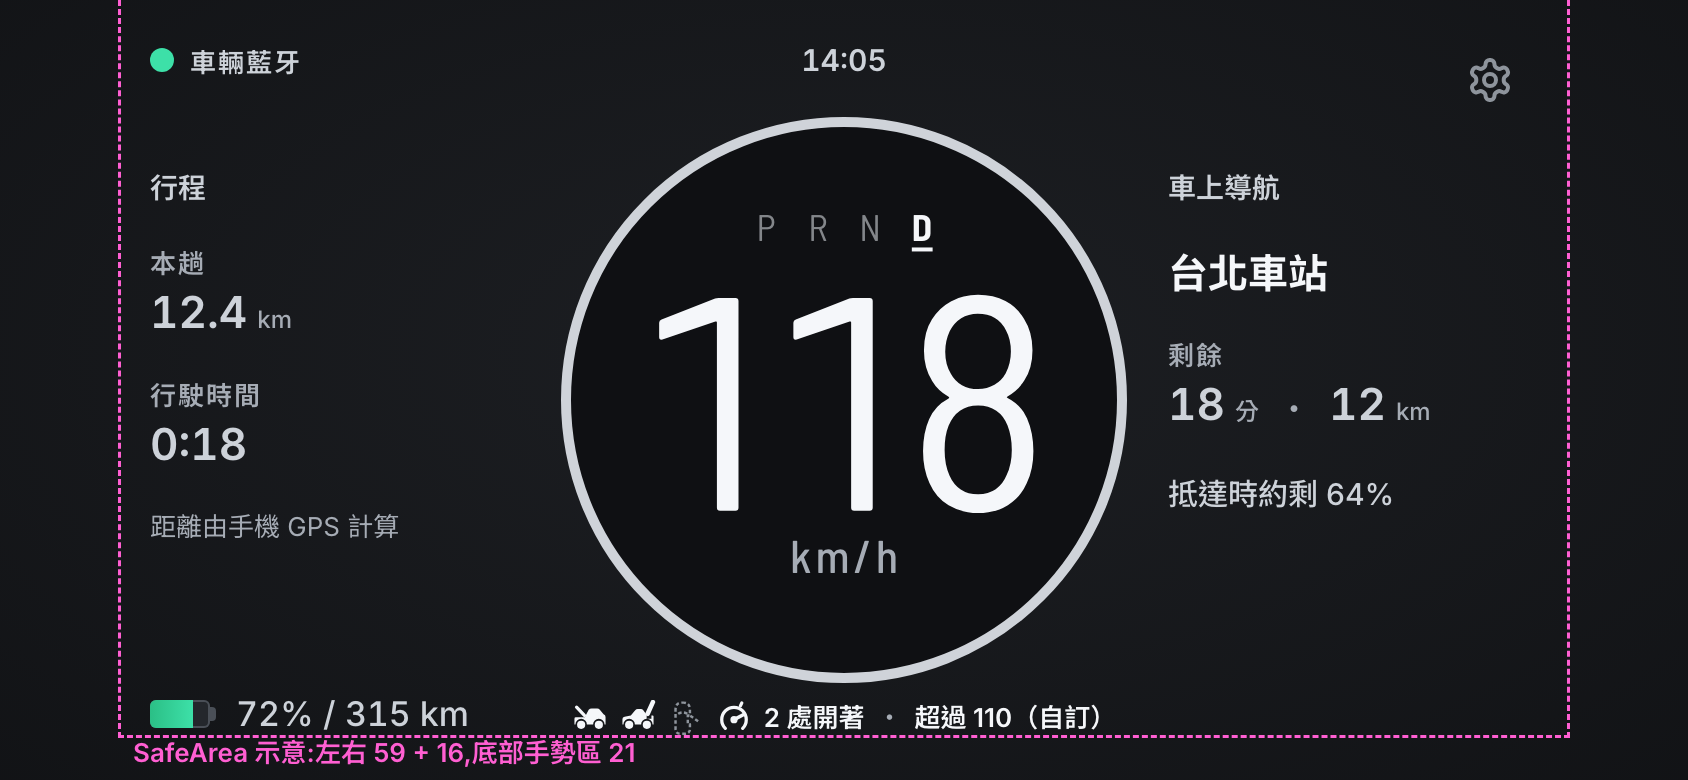
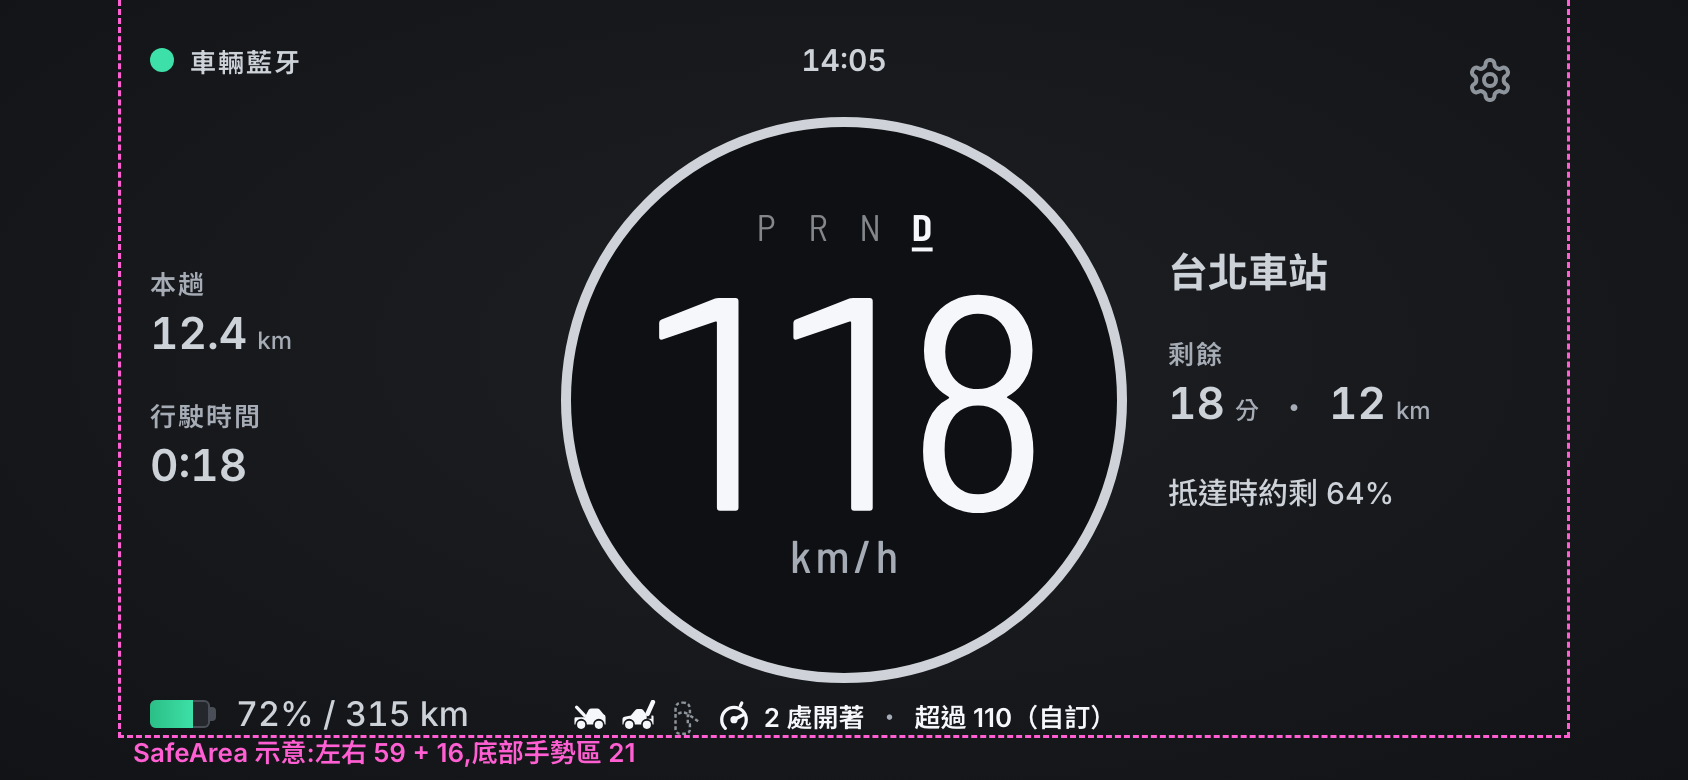
Design round 12: A drive wings distilled (L80)
While driving, the side panels lose their titles (「行程」「車上導航」,
now aria-labels) and the note 「距離由手機 GPS 計算」 (the source stays
on the parked trip panel). Their content is centered vertically against
the gauge, and the destination uses text.secondary, so only the speed is
white. The parked screen is unchanged.

Self-check: 0 issues at 1280, 1440 and 390. A new check makes sure the
drive panels carry no title or note, and that the parked trip panel
keeps its source note. The detector flags only Inter, which DESIGN.md
pins.

Claude-Session: https://claude.ai/code/session_01X7sNsGCLjkxn9JiGuuuQAw

diff --git a/docs/design/frames/main-redesign-a2.html b/docs/design/frames/main-redesign-a2.html
@@ -266,6 +266,10 @@
   .wing .dest { flex: none; margin-top: 20px; font-size: 20px; line-height: 26px; font-weight: 700; color: var(--num); white-space: nowrap; overflow: hidden; text-overflow: ellipsis; }
   .wing .note { flex: none; margin-top: 20px; font-size: 13px; line-height: 17px; color: var(--unit); }
   .wing .eta { flex: none; margin-top: 18px; font-size: 15px; line-height: 20px; font-weight: 500; color: var(--sec); white-space: nowrap; }  /* 修正 1:預估抵達電量改成一句,比左下的電量(17 / 500)小 */
+  /* 精簡(L80):行駛兩側不放標題和小字,內容在面板裡上下置中(對著量表中心);目的地也用 text.secondary,白色只給車速 */
+  .pn.wing { justify-content: center; }
+  .wing > :first-child { margin-top: 0; }
+  .wing .dest { color: var(--sec); }
   /* 狀態列:圓環正下方一行,圖示 22 + 字 15 / 600 text.primary;開著的那格「圖示 + 字」,未知的那格只有虛線圖示(灰、不加字) */
   /* 修正 1:圖示照固定順序排在前面(18 × 18、間隔 6),後面接一句話;上緣 y 350(不進量表區)、高 18。放不下時依序:13 px → 開著的部位改成「N 處開著」、未知不加字 → 只留門檻那句 */
   .srow { position: absolute; display: flex; align-items: center; justify-content: center; gap: 6px; height: 18px; white-space: nowrap; }
@@ -305,13 +309,23 @@
 
 <section id="fix1" class="rev">
   <h2>修正 1(2026-10-26):設計審查的 5 點(L77、L78)</h2>
-  <p>老闆說這 5 點由 tsla-speed-meter-80 改;夜間老闆選「外圈變暗」。Pen 沒有跟著改,這頁是最新的。</p>
+  <p>老闆說這 5 點由 tsla-speed-meter-80 改;夜間老闆選「外圈變暗」。Pen 沒有跟著改,這頁是最新的。之後又做了一次「精簡」(下一段)。</p>
   <ul>
     <li><b>狀態列放得下</b>:圖示照固定順序(前車廂、後車廂、車門、門檻)排前面,縮成 18;後面接一句話,上緣 y 350 不進量表區。放不下 300 寬時依序退:15 → 13 px → 「N 處開著」、未知只留虛線圖示 → 只留門檻那句。⑤ 是最擠的情況。</li>
     <li><b>不會把預估電量看成即時電量</b>:「預估抵達電量 64%」改成一句「抵達時約剩 64%」(15 px),比左下的即時電量(17 px)小;兩側數值 24 → 22 px、改用 text.secondary,白色只留給車速。行駛時間和小字保留(老闆喜歡 Dashla 的寫法)。</li>
     <li><b>夜間圓環變暗</b>:夜間用 text.dim #6B7078,比夜間車速暗(⑥)。白天照舊 #CFD3D9。</li>
     <li><b>車門未知有字</b>:狀態列多「車門未知」(text.secondary),不再只有虛線(④)。</li>
     <li><b>超過門檻更明顯</b>:圓環 2 → 5 px,不變色、不閃(② ⑤),取代 110 刻痕。</li>
+  </ul>
+</section>
+
+<section id="distill" class="rev">
+  <h2>精簡(2026-10-26,L80)</h2>
+  <ul>
+    <li><b>行駛時兩側拿掉標題</b>「行程」「車上導航」:內容自己看得懂(本趟、行駛時間;目的地、剩餘),讀屏改用 aria-label。停車畫面的標題是按鈕,照舊。</li>
+    <li><b>行駛時拿掉小字</b>「距離由手機 GPS 計算」:開車時只看一眼,不讀說明;資料來源留在停車畫面的行程那組。</li>
+    <li><b>兩側內容上下置中</b>,對著量表中心,離車速數字比較近,不再黏在上方。</li>
+    <li><b>目的地也改成 text.secondary</b>:兩側全部同一個灰白,白色只給車速。</li>
   </ul>
 </section>
 
@@ -717,7 +731,7 @@ const TEMP = `<div class="htemp" style="left:633px;top:16px;width:76px">車外 2
 const dots = (i, n, cls = "", st = "") => `<span class="dots ${cls}" style="${st}" aria-hidden="true">${Array.from({ length: n }, (_, j) => `<i class="${j === i - 1 ? "on" : ""}"></i>`).join("")}</span>`;
 const say = (name, i, n) => `${name}，第 ${i} 張，共 ${n} 張，按鈕`;
 const ttl = (name, btn) => btn ? `<div class="pt btn" role="button" aria-label="${say(name, ...btn)}">${name}${ic("chevron-down", 16)}${dots(...btn)}</div>` : `<div class="pt">${name}</div>`;
-const pnl = (p, inner, cls = "") => `<div class="pn ${cls}" style="left:${p.x}px;top:${p.y}px;width:${p.w}px;height:${p.h}px">${inner}</div>`;
+const pnl = (p, inner, cls = "", label = "") => `<div class="pn ${cls}"${label ? ` role="group" aria-label="${label}"` : ""} style="left:${p.x}px;top:${p.y}px;width:${p.w}px;height:${p.h}px">${inner}</div>`;
 const hit = (x, y, w, h, name) => `<span class="hit" data-hit="${name}" style="left:${x}px;top:${y}px;width:${w}px;height:${h}px"></span>`;
 // 行程(L73 S12-05):GPS 那組 +「距離和車速由手機 GPS 計算」;o.charge 有值時隔一條線,再放「本趟電量變化」+「依車輛藍牙電量計算」(只用 GPS 或起點電量缺值時不畫)
 const NOTE_GPS = "距離和車速由手機 GPS 計算", NOTE_BLE = "依車輛藍牙電量計算";
@@ -770,12 +784,12 @@ const srow = (ring = {}, t = TC) => { const items = RING_KEYS.map(n => [n, stOf(
     `<span class="si i">${items.map(([n, st]) => srIcon(n, st, t)).join("")}</span>${words ? `<span class="si w">${words}</span>` : ""}</div>`; };
 
 // 行駛兩側(參考 Dashla:小標題在上、大數字在下)。左右兩塊都從 y 84 開始,同一高度
-const NOTE_DRIVE = "距離由手機 GPS 計算";
 const LW = { x: 75, y: 84, w: 185, h: 212 }, RW = { x: 584, y: 84, w: 185, h: 212 };
 const wi = (k, v) => `<div class="wi"><span class="wk">${k}</span><span class="wv">${v}</span></div>`;
-const WING_TRIP = ttl("行程") + wi("本趟", "12.4<small>km</small>") + wi("行駛時間", "0:18") + `<div class="note">${NOTE_DRIVE}</div>`;
+// 精簡(L80):行駛時不放「行程」「車上導航」標題(內容自己看得懂,讀屏用 aria-label)和「距離由手機 GPS 計算」(資料來源留在停車畫面)
+const WING_TRIP = wi("本趟", "12.4<small>km</small>") + wi("行駛時間", "0:18");
 // 修正 1:預估抵達電量不再是一個大數字(會和左下的即時電量 72% 搞混),改成一句「抵達時約剩 64%」,比即時電量小
-const WING_NAV = ttl("車上導航") + `<div class="dest">台北車站</div>` + wi("剩餘", `18<small>分</small><span class="sep">・</span>12<small>km</small>`) + `<div class="eta">抵達時約剩 64%</div>`;
+const WING_NAV = `<div class="dest">台北車站</div>` + wi("剩餘", `18<small>分</small><span class="sep">・</span>12<small>km</small>`) + `<div class="eta">抵達時約剩 64%</div>`;
 
 // 停車胎壓:車圖下面多一行讀值時間「3 分鐘前」(DESIGN.md「Shared time line」的寫法)。
 // 複製來的 tirePanel 只在有舊值時才畫這一行,所以這裡加一個「recent」狀態(四輪都是 3 分鐘前),其他狀態照舊
@@ -791,22 +805,22 @@ const R_TRUNK = { trunk: "open" }, R_THR = { thr: true }, R_UNK = { trunk: "open
 const NT = tcOf(true);
 const SCREENS = {
   "A-drive-ble": { dir: "A", n: "①", title: "A 調整 2 ① 行駛・車輛藍牙", exp: { v: 112, gl: "D", ri: ["trunk"], rl: "後車廂開著", batt: true, tire: false },
-    html: () => scr(gaugeBox(gA2(112, "D")) + srow(R_TRUNK) + chipBle() + TIME + pnl(LW, WING_TRIP, "wing") + pnl(RW, WING_NAV, "wing") + hbatt(G15, BATT, false)) },
+    html: () => scr(gaugeBox(gA2(112, "D")) + srow(R_TRUNK) + chipBle() + TIME + pnl(LW, WING_TRIP, "wing", "行程") + pnl(RW, WING_NAV, "wing", "車上導航") + hbatt(G15, BATT, false)) },
   "A-drive-gps": { dir: "A", n: "②", title: "A 調整 2 ② 行駛・GPS 備援", exp: { v: 118, gl: null, ri: ["thr"], rl: `超過 ${THR}（自訂）`, batt: false, tire: false, gps: true },
-    html: () => scr(gaugeBox(gA2(118, null, TC, { thr: true })) + srow(R_THR) + chipGps() + TIME + pnl(LW, WING_TRIP, "wing")) },
+    html: () => scr(gaugeBox(gA2(118, null, TC, { thr: true })) + srow(R_THR) + chipGps() + TIME + pnl(LW, WING_TRIP, "wing", "行程")) },
   "A-parked": { dir: "A", n: "③", title: "A 調整 2 ③ 停車(P)", exp: { v: 0, gl: "P", ri: [], rl: null, batt: true, tire: true, hits: 2, charge: true },
     html: () => scr(gaugeBox(gA2(0, "P")) + chipBle() + PILL + TEMP + pnl(LP, ttl("行程", [1, 2]) + rows(TRIP_PARK, { note: true, tight: true, charge: CHARGE })) + tireRecent(585, 72, 184, [1, 3]) +
       hit(75, 72, 120, 44, "左:行程") + hit(585, 59, 124, 44, "右:胎壓") + hbatt(G15, BATT, true)) },
   "A-drive-ble-unknown": { dir: "A", n: "④", title: "A 調整 2 ④ 行駛・車輛藍牙:後車廂開著 + 車門未知", exp: { v: 112, gl: "D", ri: ["trunk", "door:unknown"], rl: "後車廂開著車門未知", batt: true, tire: false },
-    html: () => scr(gaugeBox(gA2(112, "D")) + srow(R_UNK) + chipBle() + TIME + pnl(LW, WING_TRIP, "wing") + pnl(RW, WING_NAV, "wing") + hbatt(G15, BATT, false)) },
+    html: () => scr(gaugeBox(gA2(112, "D")) + srow(R_UNK) + chipBle() + TIME + pnl(LW, WING_TRIP, "wing", "行程") + pnl(RW, WING_NAV, "wing", "車上導航") + hbatt(G15, BATT, false)) },
   // 修正 1 新增:最擠的狀態列(前、後車廂開著 + 車門未知 + 超過門檻),和夜間
   "A-drive-all": { dir: "A", n: "⑤", title: "A 調整 2 ⑤ 行駛・車輛藍牙:狀態列最擠的時候", exp: { v: 118, gl: "D", ri: ["frunk", "trunk", "door:unknown", "thr"], rl: "2 處開著超過 110（自訂）", batt: true, tire: false },
-    html: () => scr(gaugeBox(gA2(118, "D", TC, { thr: true })) + srow(R_ALL) + chipBle() + TIME + pnl(LW, WING_TRIP, "wing") + pnl(RW, WING_NAV, "wing") + hbatt(G15, BATT, false)) },
+    html: () => scr(gaugeBox(gA2(118, "D", TC, { thr: true })) + srow(R_ALL) + chipBle() + TIME + pnl(LW, WING_TRIP, "wing", "行程") + pnl(RW, WING_NAV, "wing", "車上導航") + hbatt(G15, BATT, false)) },
   "A-drive-night": { dir: "A", n: "⑥", night: true, title: "A 調整 2 ⑥ 行駛・車輛藍牙・夜間", exp: { v: 112, gl: "D", ri: ["trunk"], rl: "後車廂開著", batt: true, tire: false, night: true },
-    html: () => scr(gaugeBox(gA2(112, "D", NT)) + srow(R_TRUNK, NT) + chipBle() + TIME + pnl(LW, WING_TRIP, "wing") + pnl(RW, WING_NAV, "wing") + hbatt(G15, BATT, false)) },
+    html: () => scr(gaugeBox(gA2(112, "D", NT)) + srow(R_TRUNK, NT) + chipBle() + TIME + pnl(LW, WING_TRIP, "wing", "行程") + pnl(RW, WING_NAV, "wing", "車上導航") + hbatt(G15, BATT, false)) },
 };
 const CAPS = {
-  "A-drive-ble": "整圈細圓環 + 深色圓盤 + 112 + <code>P R N D</code>(D,每格 26)。圓環正下方「[圖示] 後車廂開著」。左:行程(本趟 12.4 km、行駛時間 0:18、距離由手機 GPS 計算);右:車上導航(台北車站、剩餘 18 分・12 km、「抵達時約剩 64%」)。兩側數值 22 px text.secondary,白色只給車速。上方時間 14:05,左下 72% / 315 km。",
+  "A-drive-ble": "整圈細圓環 + 深色圓盤 + 112 + <code>P R N D</code>(D,每格 26)。圓環正下方「[圖示] 後車廂開著」。左:本趟 12.4 km、行駛時間 0:18;右:台北車站、剩餘 18 分・12 km、「抵達時約剩 64%」。兩側沒有標題和小字(L80),內容對著量表中心上下置中,全部 text.secondary,白色只給車速。上方時間 14:05,左下 72% / 315 km。",
   "A-drive-gps": "◐ GPS · 藍牙資料過期;118,沒有 <code>P R N D</code>。超過自訂門檻:圓環變粗(2 → 5 px,不變色、不閃),正下方「[圖示] 超過 110（自訂）」。照 L71 不畫車況;右邊空白、左下空。",
   "A-parked": "日期膠囊、車外 23°。0 + P。左「行程 ⌄」兩組(同 A 原稿);右「胎壓 ⌄」,車圖下面多一行「3 分鐘前」。",
   "A-drive-ble-unknown": "同 ①;狀態列「[後車廂][車門虛線] 後車廂開著 ・ 車門未知」,「車門未知」用 text.secondary。讀屏唸圖示的句子(「後車廂開著」「車門狀態未知」)。",
@@ -911,7 +925,7 @@ function geoAuditA2() {
 }
 // 狀態列的上緣進到 300 × 300 量表區(L35)的量,當「要裁定」記下來,不算問題數(調整 2 原本就這樣排)
 const DEV = [];
-const NOTE_ALL = [NOTE_GPS, NOTE_DRIVE];
+const NOTE_ALL = [NOTE_GPS];
 function screenAuditA2(f) {
   const id = f.dataset.screen, sp = SCREENS[id], e = sp.exp, issues = [], fr = f.getBoundingClientRect(), sc = fr.width / 844;
   const loc = (r) => ({ l: (r.left - fr.left) / sc, r: (r.right - fr.left) / sc, t: (r.top - fr.top) / sc, b: (r.bottom - fr.top) / sc });
@@ -957,8 +971,10 @@ function screenAuditA2(f) {
     if ([...sr.querySelectorAll(".st")].some(s => s.getAttribute("aria-hidden") !== "true")) issues.push("狀態列的字會被讀屏重複唸"); }
   if (!!f.querySelector(".tp") !== e.tire) issues.push("胎壓");
   const lbl = f.querySelector(".chip .lbl").textContent, txtAll = f.textContent;
-  if (e.gps) { if (lbl !== "GPS · 藍牙資料過期") issues.push(`來源標示「${lbl}」`); if (/車上導航|正在播放|胎壓|依車輛藍牙/.test(txtAll) || f.querySelector(".ri:not([data-ri=thr])")) issues.push("GPS 備援還有車子資料(M12-07、L71)"); if (!NOTE_ALL.some(n => txtAll.includes(n))) issues.push("GPS 行程沒寫資料來源"); }
+  if (e.gps) { if (lbl !== "GPS · 藍牙資料過期") issues.push(`來源標示「${lbl}」`); if (/車上導航|正在播放|胎壓|依車輛藍牙/.test(txtAll) || f.querySelector(".ri:not([data-ri=thr])")) issues.push("GPS 備援還有車子資料(M12-07、L71)"); }
   else if (lbl !== "車輛藍牙") issues.push(`來源標示「${lbl}」`);
+  if (e.tire && !txtAll.includes(NOTE_GPS)) issues.push("停車行程沒寫資料來源");
+  if (!e.tire && f.querySelector(".pn.wing .pt, .pn.wing .note")) issues.push("行駛兩側還有標題或小字(L80)");
   if (/由手機 GPS 計算/.test(NOTE_ALL.reduce((s, n) => s.replaceAll(n, ""), txtAll))) issues.push("還有舊的「由手機 GPS 計算」");
   if (/這趟用電|藍牙中斷/.test(txtAll)) issues.push("還有舊字(這趟用電 / 藍牙中斷)");
   const g2 = f.querySelector(".grp2");

diff --git a/docs/design/00-rulings.md b/docs/design/00-rulings.md
@@ -363,6 +363,10 @@ Brief 在 `00-brief-main-redesign.md`。
     - 圓環 2 → 5 px,中性色、不閃、不發聲,加上原本的小錶圖示和「超過 110(自訂)」。
     - 這取代 07 和頁面上「錶上 110 的刻痕」,因為圓環沒有刻度了。L73 S12-08 什麼時候亮、什麼時候熄不變。
   - **還沒定**:圓盤、圓環、`P R N D` 26、兩側字級要不要寫進 DESIGN.md,等老闆說調整 2 定案。
+- **L80 行駛時兩側精簡**(使用者要求 distill,細節主持人裁定,2026-10-26):
+  - 行駛時兩側不放標題「行程」「車上導航」,讀屏改用 aria-label。停車畫面的標題是按鈕,照舊。
+  - 也不放「距離由手機 GPS 計算」。資料來源留在停車畫面的行程那組(L73 S12-05 改成只管停車畫面)。
+  - 兩側內容在面板裡上下置中,目的地也用 text.secondary,白色只給車速。
 - **L79 PRODUCT.md 更新**(使用者同意,2026-10-26,commit 96b363f):
   - 改成 Swift 的 iPhone app;
   - 拿掉鏡像模式;
